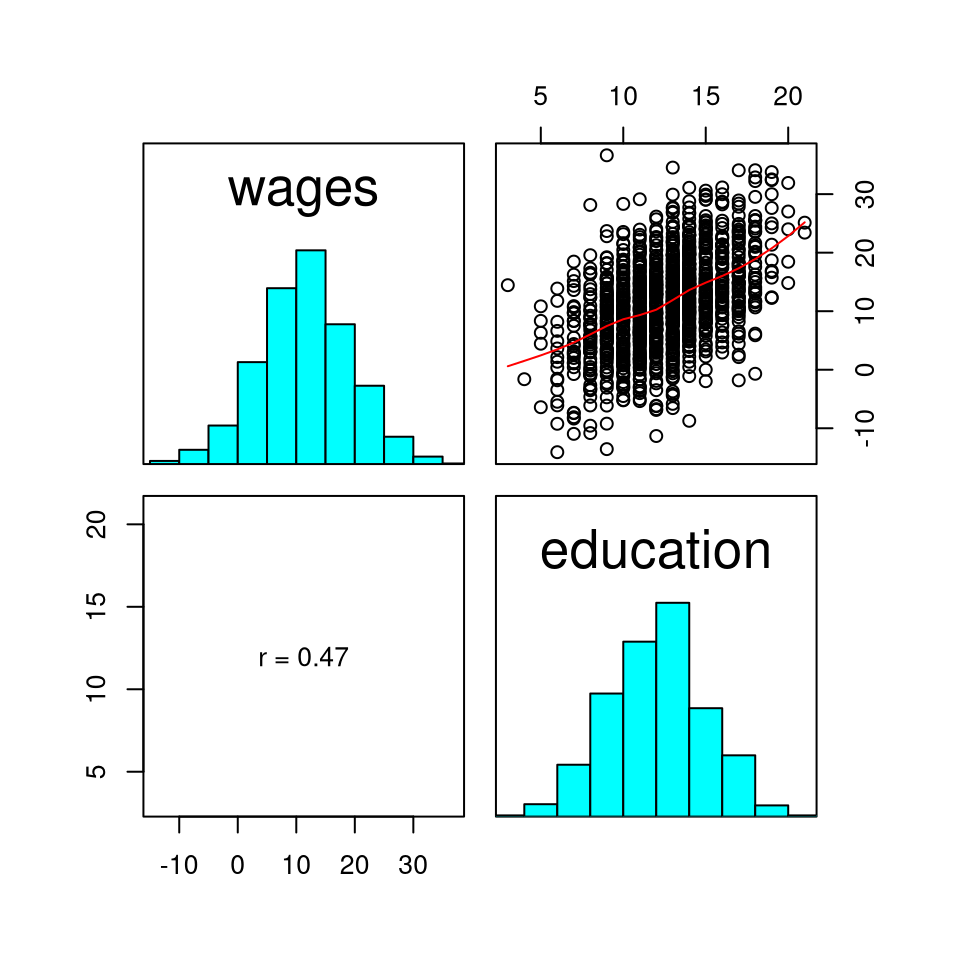
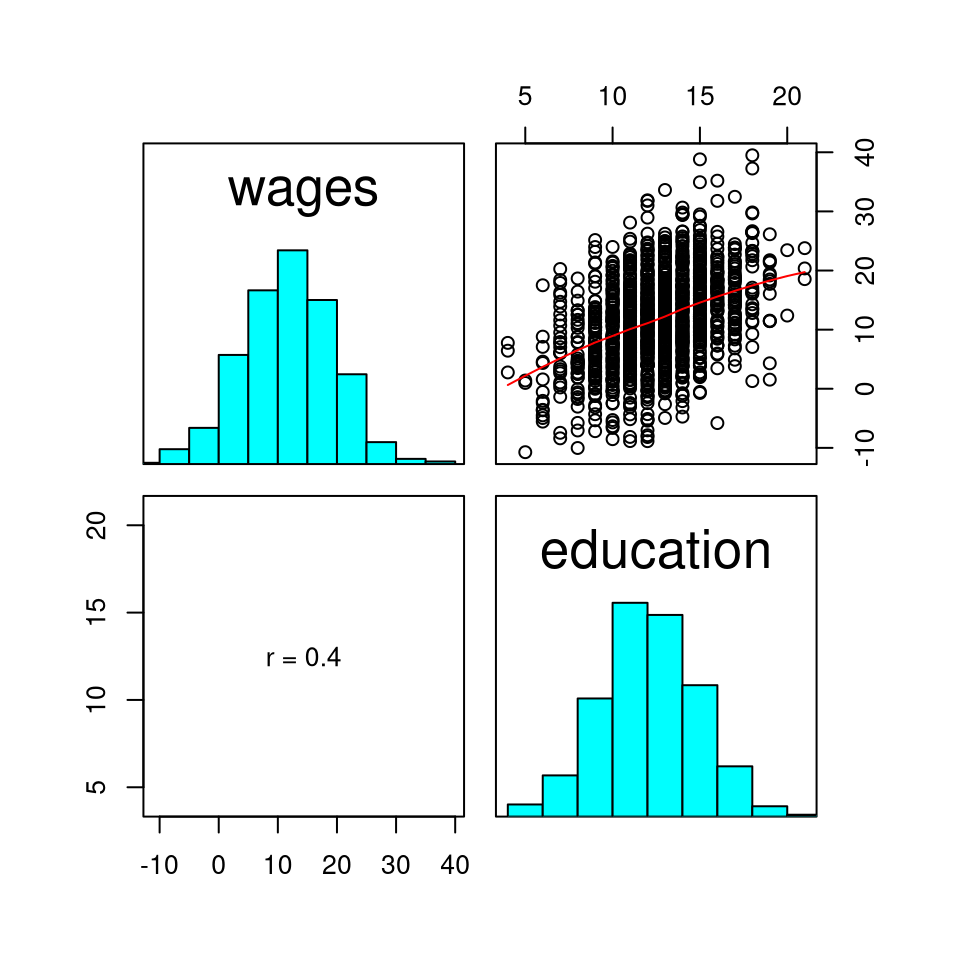
Automated build.

diff --git a/docs/articles/tests/test-linreg-estimation-linreg.html b/docs/articles/tests/test-linreg-estimation-linreg.html
@@ -89,11 +89,13 @@
     
     
 <div class="sourceCode" id="cb1"><html><body><pre class="r"># The Linear Regression Model {#linreg-estimation-linreg-example}</pre></body></html></div>
+<pre><code>#&gt; This is lavaan 0.6-6
+#&gt; lavaan is BETA software! Please report any bugs.</code></pre>
 <div id="data" class="section level2">
 <h2 class="hasAnchor">
 <a href="#data" class="anchor"></a>Data</h2>
 <p>See <code><a href="https://rdrr.io/pkg/jeksterslabRdatarepo/man/wages.matrix.html">jeksterslabRdatarepo::wages.matrix()</a></code> for the data set used in this example.</p>
-<div class="sourceCode" id="cb2"><html><body><pre class="r"><span class="no">X</span> <span class="kw">&lt;-</span> <span class="kw pkg">jeksterslabRdatarepo</span><span class="kw ns">::</span><span class="no"><a href="https://rdrr.io/pkg/jeksterslabRdatarepo/man/wages.matrix.html">wages.matrix</a></span><span class="kw">[[</span><span class="st">"X"</span>]]
+<div class="sourceCode" id="cb3"><html><body><pre class="r"><span class="no">X</span> <span class="kw">&lt;-</span> <span class="kw pkg">jeksterslabRdatarepo</span><span class="kw ns">::</span><span class="no"><a href="https://rdrr.io/pkg/jeksterslabRdatarepo/man/wages.matrix.html">wages.matrix</a></span><span class="kw">[[</span><span class="st">"X"</span>]]
 <span class="co"># age is removed</span>
 <span class="no">X</span> <span class="kw">&lt;-</span> <span class="no">X</span>[, -<span class="fu"><a href="https://rdrr.io/r/base/nrow.html">ncol</a></span>(<span class="no">X</span>)]
 <span class="no">y</span> <span class="kw">&lt;-</span> <span class="kw pkg">jeksterslabRdatarepo</span><span class="kw ns">::</span><span class="no"><a href="https://rdrr.io/pkg/jeksterslabRdatarepo/man/wages.matrix.html">wages.matrix</a></span><span class="kw">[[</span><span class="st">"y"</span>]]
@@ -119,7 +121,7 @@
 <a href="#data-1" class="anchor"></a>Data</h2>
 <p>In this example, we are interested in predictors of wages. The regressor variables are gender, race, union membership, education, and work experience. The regressand variable is hourly wage in US dollars.</p>
 <p>See <code><a href="https://rdrr.io/pkg/jeksterslabRdatarepo/man/wages.matrix.html">jeksterslabRdatarepo::wages.matrix()</a></code> for the data set used in this example.</p>
-<div class="sourceCode" id="cb3"><html><body><pre class="r"><span class="no">X</span> <span class="kw">&lt;-</span> <span class="kw pkg">jeksterslabRdatarepo</span><span class="kw ns">::</span><span class="no"><a href="https://rdrr.io/pkg/jeksterslabRdatarepo/man/wages.matrix.html">wages.matrix</a></span><span class="kw">[[</span><span class="st">"X"</span>]]
+<div class="sourceCode" id="cb4"><html><body><pre class="r"><span class="no">X</span> <span class="kw">&lt;-</span> <span class="kw pkg">jeksterslabRdatarepo</span><span class="kw ns">::</span><span class="no"><a href="https://rdrr.io/pkg/jeksterslabRdatarepo/man/wages.matrix.html">wages.matrix</a></span><span class="kw">[[</span><span class="st">"X"</span>]]
 <span class="co"># age is removed</span>
 <span class="no">X</span> <span class="kw">&lt;-</span> <span class="no">X</span>[, -<span class="fu"><a href="https://rdrr.io/r/base/nrow.html">ncol</a></span>(<span class="no">X</span>)]
 <span class="no">y</span> <span class="kw">&lt;-</span> <span class="kw pkg">jeksterslabRdatarepo</span><span class="kw ns">::</span><span class="no"><a href="https://rdrr.io/pkg/jeksterslabRdatarepo/man/wages.matrix.html">wages.matrix</a></span><span class="kw">[[</span><span class="st">"y"</span>]]
@@ -165,7 +167,11 @@
 <li>Scatterplot matrix</li>
 <li>Residual plots</li>
 </ul>
-<div class="sourceCode" id="cb4"><html><body><pre class="r"><span class="no">result_linreg</span> <span class="kw">&lt;-</span> <span class="fu"><a href="../../reference/linreg.html">linreg</a></span>(
+</div>
+<div id="using-unbiased-standard-errors" class="section level2">
+<h2 class="hasAnchor">
+<a href="#using-unbiased-standard-errors" class="anchor"></a>Using Unbiased Standard Errors</h2>
+<div class="sourceCode" id="cb5"><html><body><pre class="r"><span class="fu"><a href="../../reference/linreg.html">linreg</a></span>(
   <span class="kw">X</span> <span class="kw">=</span> <span class="no">X</span>,
   <span class="kw">y</span> <span class="kw">=</span> <span class="no">y</span>
 )
@@ -212,11 +218,21 @@
 <span class="co">#&gt; experience 18.7897595 11.6628366</span></pre></body></html></div>
 <p><img src="test-linreg-estimation-linreg_files/figure-html/unnamed-chunk-6-1.png" width="100%"><img src="test-linreg-estimation-linreg_files/figure-html/unnamed-chunk-6-2.png" width="100%"></p>
 </div>
+<div id="using-biased-standard-errors" class="section level2">
+<h2 class="hasAnchor">
+<a href="#using-biased-standard-errors" class="anchor"></a>Using Biased Standard Errors</h2>
+<div class="sourceCode" id="cb6"><html><body><pre class="r"><span class="fu"><a href="../../reference/linreg.html">linreg</a></span>(
+  <span class="kw">X</span> <span class="kw">=</span> <span class="no">X</span>,
+  <span class="kw">y</span> <span class="kw">=</span> <span class="no">y</span>,
+  <span class="kw">ubiased</span> <span class="kw">=</span> <span class="fl">FALSE</span>
+)
+<span class="co">#&gt; Error in linreg(X = X, y = y, ubiased = FALSE): unused argument (ubiased = FALSE)</span></pre></body></html></div>
+</div>
 <div id="lm-function" class="section level2">
 <h2 class="hasAnchor">
 <a href="#lm-function" class="anchor"></a><code>lm()</code> function</h2>
 <p>The <code><a href="https://rdrr.io/r/stats/lm.html">lm()</a></code> function is the default option for fitting a linear model in <code>R</code>.</p>
-<div class="sourceCode" id="cb5"><html><body><pre class="r"><span class="no">lmobj</span> <span class="kw">&lt;-</span> <span class="fu"><a href="https://rdrr.io/r/stats/lm.html">lm</a></span>(
+<div class="sourceCode" id="cb7"><html><body><pre class="r"><span class="no">lmobj</span> <span class="kw">&lt;-</span> <span class="fu"><a href="https://rdrr.io/r/stats/lm.html">lm</a></span>(
   <span class="no">wages</span> ~ <span class="no">gender</span> + <span class="no">race</span> + <span class="no">union</span> + <span class="no">education</span> + <span class="no">experience</span>,
   <span class="kw">data</span> <span class="kw">=</span> <span class="kw pkg">jeksterslabRdatarepo</span><span class="kw ns">::</span><span class="no"><a href="https://rdrr.io/pkg/jeksterslabRdatarepo/man/wages.html">wages</a></span>
 )
@@ -244,6 +260,40 @@
 <span class="co">#&gt; Residual standard error: 6.508 on 1283 degrees of freedom</span>
 <span class="co">#&gt; Multiple R-squared:  0.3233, Adjusted R-squared:  0.3207 </span>
 <span class="co">#&gt; F-statistic: 122.6 on 5 and 1283 DF,  p-value: &lt; 2.2e-16</span></pre></body></html></div>
+</div>
+<div id="lavaansem-function" class="section level2">
+<h2 class="hasAnchor">
+<a href="#lavaansem-function" class="anchor"></a><code>lavaan::sem()</code> function</h2>
+<p>Linear regression in SEM</p>
+<div class="sourceCode" id="cb8"><html><body><pre class="r"><span class="no">model</span> <span class="kw">&lt;-</span> <span class="fu"><a href="https://rdrr.io/r/base/c.html">c</a></span>(
+  <span class="no">wages</span> ~ <span class="no">gender</span> + <span class="no">race</span> + <span class="no">union</span> + <span class="no">education</span> + <span class="no">experience</span>
+)</pre></body></html></div>
+<div id="wishart-likelihood-unbiased" class="section level3">
+<h3 class="hasAnchor">
+<a href="#wishart-likelihood-unbiased" class="anchor"></a>Wishart Likelihood (Unbiased)</h3>
+<div class="sourceCode" id="cb9"><html><body><pre class="r"><span class="no">lavobj</span> <span class="kw">&lt;-</span> <span class="kw pkg">lavaan</span><span class="kw ns">::</span><span class="fu"><a href="https://rdrr.io/pkg/lavaan/man/sem.html">sem</a></span>(
+  <span class="kw">model</span> <span class="kw">=</span> <span class="no">model</span>,
+  <span class="kw">data</span> <span class="kw">=</span> <span class="kw pkg">jeksterslabRdatarepo</span><span class="kw ns">::</span><span class="no"><a href="https://rdrr.io/pkg/jeksterslabRdatarepo/man/wages.html">wages</a></span>,
+  <span class="kw">likelihood</span> <span class="kw">=</span> <span class="st">"wishart"</span>
+)
+<span class="co">#&gt; Error in lavaan::lavaan(model = model, data = jeksterslabRdatarepo::wages, : lavaan ERROR: model is a list, but not a parameterTable?</span>
+<span class="co">#&gt;   lavaan  NOTE: missing column(s) in parameter table: [lhs, op, rhs, free]</span>
+<span class="fu"><a href="https://rdrr.io/r/base/summary.html">summary</a></span>(<span class="no">lavobj</span>)
+<span class="co">#&gt; Error in h(simpleError(msg, call)): error in evaluating the argument 'object' in selecting a method for function 'summary': object 'lavobj' not found</span></pre></body></html></div>
+</div>
+<div id="normal-likelihood-biased" class="section level3">
+<h3 class="hasAnchor">
+<a href="#normal-likelihood-biased" class="anchor"></a>Normal Likelihood (Biased)</h3>
+<div class="sourceCode" id="cb10"><html><body><pre class="r"><span class="no">lavobj</span> <span class="kw">&lt;-</span> <span class="kw pkg">lavaan</span><span class="kw ns">::</span><span class="fu"><a href="https://rdrr.io/pkg/lavaan/man/sem.html">sem</a></span>(
+  <span class="kw">model</span> <span class="kw">=</span> <span class="no">model</span>,
+  <span class="kw">data</span> <span class="kw">=</span> <span class="kw pkg">jeksterslabRdatarepo</span><span class="kw ns">::</span><span class="no"><a href="https://rdrr.io/pkg/jeksterslabRdatarepo/man/wages.html">wages</a></span>,
+  <span class="kw">likelihood</span> <span class="kw">=</span> <span class="st">"normal"</span>
+)
+<span class="co">#&gt; Error in lavaan::lavaan(model = model, data = jeksterslabRdatarepo::wages, : lavaan ERROR: model is a list, but not a parameterTable?</span>
+<span class="co">#&gt;   lavaan  NOTE: missing column(s) in parameter table: [lhs, op, rhs, free]</span>
+<span class="fu"><a href="https://rdrr.io/r/base/summary.html">summary</a></span>(<span class="no">lavobj</span>)
+<span class="co">#&gt; Error in h(simpleError(msg, call)): error in evaluating the argument 'object' in selecting a method for function 'summary': object 'lavobj' not found</span></pre></body></html></div>
+</div>
 </div>
   </div>
 

diff --git a/docs/articles/tests/test-simple-population-example.html b/docs/articles/tests/test-simple-population-example.html
@@ -129,14 +129,14 @@
 <td align="left"><code>beta1</code></td>
 <td align="left">Intercept</td>
 <td align="left"><span class="math inline">\(\beta_1\)</span></td>
-<td align="right">-3.955957</td>
+<td align="right">-4.723353</td>
 </tr>
 <tr class="even">
 <td align="left"><code>mux</code></td>
 <td align="left">Mean of <span class="math inline">\(x\)</span>
 </td>
 <td align="left"><span class="math inline">\(\mu_x\)</span></td>
-<td align="right">13.215448</td>
+<td align="right">13.034542</td>
 </tr>
 </tbody>
 </table>
@@ -153,25 +153,25 @@
 <td align="left"><code>beta2</code></td>
 <td align="left">Slope</td>
 <td align="left"><span class="math inline">\(\beta_2\)</span></td>
-<td align="right">1.250361</td>
+<td align="right">1.271663</td>
 </tr>
 <tr class="even">
 <td align="left"><code>sigma2epsilon</code></td>
 <td align="left">Variance of <span class="math inline">\(\varepsilon\)</span>
 </td>
 <td align="left"><span class="math inline">\(\sigma_{\varepsilon}^{2}\)</span></td>
-<td align="right">50.997296</td>
+<td align="right">49.961613</td>
 </tr>
 <tr class="odd">
 <td align="left"><code>sigma2x</code></td>
 <td align="left">Variance of <span class="math inline">\(x\)</span>
 </td>
 <td align="left"><span class="math inline">\(\sigma_{x}^{2}\)</span></td>
-<td align="right">7.812540</td>
+<td align="right">7.717501</td>
 </tr>
 </tbody>
 </table>
-<p>There are times when the intercept does not lend to a meaningful interpretation. A negative wage corresponding to zero years of education does not really make a lot of sense. The value that is interesting in this case is the slope. The slope represents 1.250361 US dollar increase in hourly wages given 1 additional year of education.</p>
+<p>There are times when the intercept does not lend to a meaningful interpretation. A negative wage corresponding to zero years of education does not really make a lot of sense. The value that is interesting in this case is the slope. The slope represents 1.2716628 US dollar increase in hourly wages given 1 additional year of education.</p>
 <p>The expected values are derived using <code><a href="../../reference/mutheta.html">jeksterslabRlinreg::mutheta()</a></code>.</p>
 <div class="sourceCode" id="cb2"><html><body><pre class="r"><span class="no">result_mutheta</span> <span class="kw">&lt;-</span> <span class="kw pkg">jeksterslabRlinreg</span><span class="kw ns">::</span><span class="fu"><a href="../../reference/mutheta.html">mutheta</a></span>(
   <span class="kw">beta</span> <span class="kw">=</span> <span class="no">beta</span>,
@@ -186,11 +186,11 @@
 <tbody>
 <tr class="odd">
 <td align="left">y</td>
-<td align="right">12.56812</td>
+<td align="right">11.85219</td>
 </tr>
 <tr class="even">
 <td align="left">x</td>
-<td align="right">13.21545</td>
+<td align="right">13.03454</td>
 </tr>
 </tbody>
 </table>
@@ -210,13 +210,13 @@
 <tbody>
 <tr class="odd">
 <td align="left">y</td>
-<td align="right">63.211440</td>
-<td align="right">9.768495</td>
+<td align="right">62.441786</td>
+<td align="right">9.814059</td>
 </tr>
 <tr class="even">
 <td align="left">x</td>
-<td align="right">9.768495</td>
-<td align="right">7.812540</td>
+<td align="right">9.814059</td>
+<td align="right">7.717501</td>
 </tr>
 </tbody>
 </table>
@@ -227,21 +227,21 @@
   <span class="kw">sigmayX</span> <span class="kw">=</span> <span class="no">sigmayx</span>
 )
 <span class="no">result_slopes</span>
-<span class="co">#&gt; [1] 1.250361</span>
+<span class="co">#&gt; [1] 1.271663</span>
 <span class="no">result_intercept</span> <span class="kw">&lt;-</span> <span class="kw pkg">jeksterslabRlinreg</span><span class="kw ns">::</span><span class="fu"><a href="../../reference/intercept.html">intercept</a></span>(
   <span class="kw">slopes</span> <span class="kw">=</span> <span class="no">result_slopes</span>,
   <span class="kw">muy</span> <span class="kw">=</span> <span class="no">muy</span>,
   <span class="kw">muX</span> <span class="kw">=</span> <span class="no">mux</span>
 )
 <span class="no">result_intercept</span>
-<span class="co">#&gt; [1] -3.955957</span></pre></body></html></div>
+<span class="co">#&gt; [1] -4.723353</span></pre></body></html></div>
 <p>Standardized slopes can also be obtained using <code><a href="../../reference/slopesprime.html">jeksterslabRlinreg::slopesprime()</a></code></p>
 <div class="sourceCode" id="cb5"><html><body><pre class="r"><span class="no">result_slopesprime</span> <span class="kw">&lt;-</span> <span class="kw pkg">jeksterslabRlinreg</span><span class="kw ns">::</span><span class="fu"><a href="../../reference/slopesprime.html">slopesprime</a></span>(
   <span class="kw">RX</span> <span class="kw">=</span> <span class="fu"><a href="https://rdrr.io/r/base/MathFun.html">sqrt</a></span>(<span class="no">sigma2x</span>),
   <span class="kw">ryX</span> <span class="kw">=</span> <span class="no">ryx</span>
 )
 <span class="no">result_slopesprime</span>
-<span class="co">#&gt; [1] 0.157267</span></pre></body></html></div>
+<span class="co">#&gt; [1] 0.160929</span></pre></body></html></div>
 <p>The error variance can also be derived with the available information using <code>jeksterslabRlinreg::sigma2()</code> .</p>
 <div class="sourceCode" id="cb6"><html><body><pre class="r"><span class="no">result_sigma2epsilon</span> <span class="kw">&lt;-</span> <span class="fu"><a href="../../reference/sigma2epsilon.html">sigma2epsilon</a></span>(
   <span class="kw">slopes</span> <span class="kw">=</span> <span class="no">beta2</span>,
@@ -250,8 +250,8 @@
   <span class="kw">SigmaX</span> <span class="kw">=</span> <span class="no">sigma2x</span>
 )
 <span class="no">result_sigma2epsilon</span>
-<span class="co">#&gt;         </span>
-<span class="co">#&gt; 50.9973</span></pre></body></html></div>
+<span class="co">#&gt;          </span>
+<span class="co">#&gt; 49.96161</span></pre></body></html></div>
 <div class="sourceCode" id="cb7"><html><body><pre class="r"><span class="fu">context</span>(<span class="st">"Test simple-regression-ram"</span>)
 <span class="fu">test_that</span>(<span class="st">"result_mutheta"</span>, {
   <span class="kw">for</span> (<span class="no">i</span> <span class="kw">in</span> <span class="fl">1</span>:<span class="fu"><a href="https://rdrr.io/r/base/nrow.html">nrow</a></span>(<span class="no">result_mutheta</span>)) {

diff --git a/docs/articles/jeksterslabRlinreg.html b/docs/articles/jeksterslabRlinreg.html
@@ -105,19 +105,19 @@
 <a href="#data" class="anchor"></a>Data</h3>
 <p>In this hypothetical example, we are interested in the association between wages and education. The regressor variable is years of education. The regressand variable is hourly wage in US dollars.</p>
 <pre><code>#&gt;      constant education
-#&gt; [1,]        1        16
-#&gt; [2,]        1        11
-#&gt; [3,]        1        18
-#&gt; [4,]        1        13
-#&gt; [5,]        1        15
-#&gt; [6,]        1        13
+#&gt; [1,]        1        11
+#&gt; [2,]        1        15
+#&gt; [3,]        1        15
+#&gt; [4,]        1        11
+#&gt; [5,]        1         8
+#&gt; [6,]        1        15
 #&gt;          wages
-#&gt; [1,] 22.845034
-#&gt; [2,]  5.342228
-#&gt; [3,] 20.984341
-#&gt; [4,]  1.307842
-#&gt; [5,]  2.254395
-#&gt; [6,] 12.982306</code></pre>
+#&gt; [1,]  9.790432
+#&gt; [2,] 18.140379
+#&gt; [3,] 14.086514
+#&gt; [4,] -2.414173
+#&gt; [5,]  4.046642
+#&gt; [6,] 18.965834</code></pre>
 </div>
 <div id="jeksterslabrlinreglinreg" class="section level3">
 <h3 class="hasAnchor">
@@ -151,32 +151,32 @@
 <span class="co">#&gt; </span>
 <span class="co">#&gt; Model Assessment:</span>
 <span class="co">#&gt;                   Value</span>
-<span class="co">#&gt; RSS            63178.40</span>
-<span class="co">#&gt; MSE               49.01</span>
-<span class="co">#&gt; RMSE               7.00</span>
-<span class="co">#&gt; R-squared          0.22</span>
-<span class="co">#&gt; Adj. R-squared     0.22</span>
+<span class="co">#&gt; RSS            65210.85</span>
+<span class="co">#&gt; MSE               50.59</span>
+<span class="co">#&gt; RMSE               7.11</span>
+<span class="co">#&gt; R-squared          0.16</span>
+<span class="co">#&gt; Adj. R-squared     0.16</span>
 <span class="co">#&gt; </span>
 <span class="co">#&gt; ANOVA Table:</span>
-<span class="co">#&gt;         df       SS          MS        F           p</span>
-<span class="co">#&gt; Model    1 17607.91 17607.91308 358.6888 9.34817e-71</span>
-<span class="co">#&gt; Error 1287 63178.40    49.08967       NA          NA</span>
-<span class="co">#&gt; Total 1288 80786.32          NA       NA          NA</span>
+<span class="co">#&gt;         df       SS          MS        F            p</span>
+<span class="co">#&gt; Model    1 12456.08 12456.07947 245.8329 7.773636e-51</span>
+<span class="co">#&gt; Error 1287 65210.85    50.66888       NA           NA</span>
+<span class="co">#&gt; Total 1288 77666.93          NA       NA           NA</span>
 <span class="co">#&gt; </span>
 <span class="co">#&gt; Coefficients:</span>
-<span class="co">#&gt;               coef        se         t            p std. coef</span>
-<span class="co">#&gt; Intercept -4.34751 0.8614507 -5.046731 5.138912e-07 0.0000000</span>
-<span class="co">#&gt; education  1.26903 0.0670059 18.939081 9.348170e-71 0.4668583</span>
+<span class="co">#&gt;                coef         se         t            p std. coef</span>
+<span class="co">#&gt; Intercept -2.401586 0.92469602 -2.597163 9.506932e-03 0.0000000</span>
+<span class="co">#&gt; education  1.126289 0.07183398 15.679060 7.773636e-51 0.4004724</span>
 <span class="co">#&gt; </span>
 <span class="co">#&gt; Confidence Intervals:</span>
-<span class="co">#&gt;             ci_0.05    ci_0.5    ci_2.5   ci_97.5   ci_99.5  ci_99.95</span>
-<span class="co">#&gt; Intercept -7.188662 -6.569755 -6.037511 -2.657508 -2.125264 -1.506357</span>
-<span class="co">#&gt; education  1.048038  1.096178  1.137577  1.400483  1.441882  1.490023</span>
+<span class="co">#&gt;              ci_0.05     ci_0.5     ci_2.5    ci_97.5     ci_99.5  ci_99.95</span>
+<span class="co">#&gt; Intercept -5.4513281 -4.7869824 -4.2156628 -0.5875089 -0.01618932 0.6481564</span>
+<span class="co">#&gt; education  0.8893734  0.9409824  0.9853647  1.2672138  1.31159610 1.3632051</span>
 <span class="co">#&gt; </span>
 <span class="co">#&gt; Means and Standard Deviations:</span>
 <span class="co">#&gt;               Mean       SD</span>
-<span class="co">#&gt; wages     11.54343 7.919741</span>
-<span class="co">#&gt; education 12.52211 2.913561</span></pre></body></html></div>
+<span class="co">#&gt; wages     11.75960 7.765334</span>
+<span class="co">#&gt; education 12.57331 2.761104</span></pre></body></html></div>
 <p><img src="jeksterslabRlinreg_files/figure-html/unnamed-chunk-4-1.png" width="100%"><img src="jeksterslabRlinreg_files/figure-html/unnamed-chunk-4-2.png" width="100%"></p>
 </div>
 </div>

diff --git a/docs/articles/tests/test-linreg-estimation-ols-example.html b/docs/articles/tests/test-linreg-estimation-ols-example.html
@@ -344,11 +344,11 @@
 )
 <span class="co">#&gt; Unit: microseconds</span>
 <span class="co">#&gt;         expr     min       lq       mean   median        uq      max neval</span>
-<span class="co">#&gt;           lm 894.952 952.8035 1055.46521 972.2330 1166.0700 3260.815   100</span>
-<span class="co">#&gt;  betahatnorm  42.773  49.2340   53.68291  53.0430   58.4025   74.067   100</span>
-<span class="co">#&gt;    betahatqr 151.800 162.9720  254.00215 185.2335  323.2365 2425.709   100</span>
-<span class="co">#&gt;   betahatsvd 159.284 173.1830  203.44550 182.5905  239.4315  277.178   100</span>
-<span class="co">#&gt;      betahat  52.811  61.1700   66.66799  66.8705   70.7080   90.769   100</span></pre></body></html></div>
+<span class="co">#&gt;           lm 888.899 950.0585 1059.64054 982.7680 1166.6965 3478.233   100</span>
+<span class="co">#&gt;  betahatnorm  43.506  49.2240   54.20965  53.1305   58.9150   80.451   100</span>
+<span class="co">#&gt;    betahatqr 156.381 167.6630  231.32532 181.3570  324.2975  362.001   100</span>
+<span class="co">#&gt;   betahatsvd 161.088 172.5715  226.14841 183.6445  241.2540 2358.745   100</span>
+<span class="co">#&gt;      betahat  51.943  60.9635   66.74856  65.8105   71.8275  114.355   100</span></pre></body></html></div>
 <div class="sourceCode" id="cb16"><html><body><pre class="r"><span class="fu">context</span>(<span class="st">"Test linreg-estimation-ols"</span>)
 <span class="fu">test_that</span>(<span class="st">"results_betahat"</span>, {
   <span class="no">result_lm</span> <span class="kw">&lt;-</span> <span class="fu"><a href="https://rdrr.io/r/base/vector.html">as.vector</a></span>(<span class="fu"><a href="https://rdrr.io/r/base/unname.html">unname</a></span>(<span class="no">result_lm</span>))
